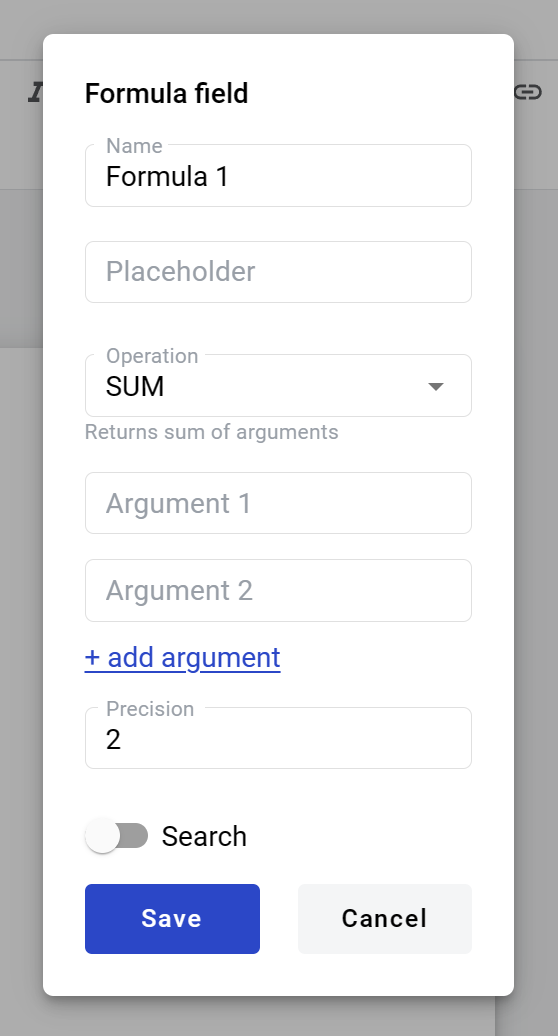
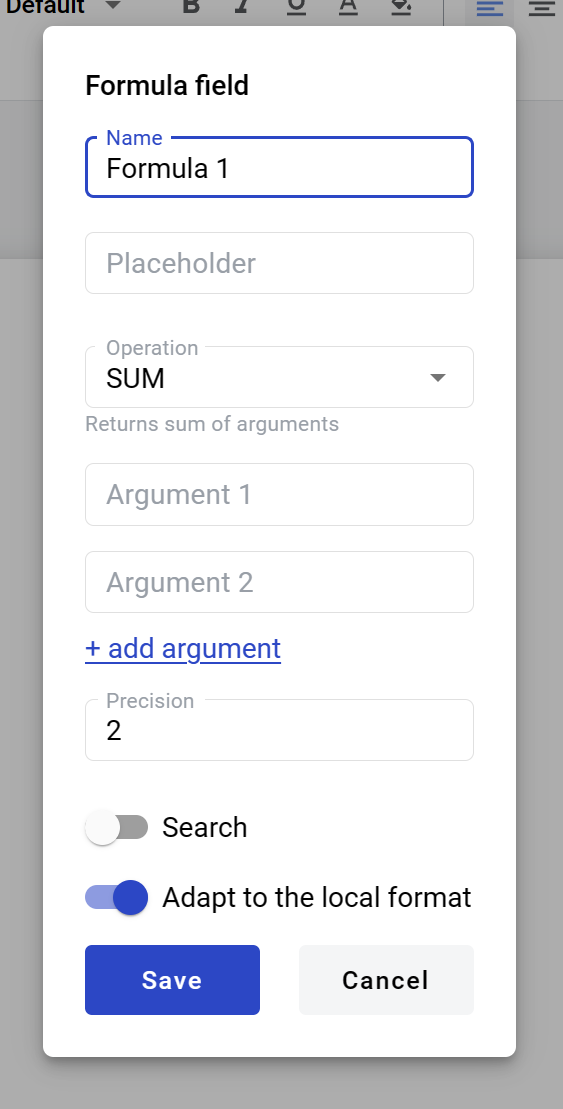
Formula regional formatting

diff --git a/docs/source/pages/howToWorkWithPlatform/mainApplication/templateList/templateManagement/documentManagementOnTemplate/structuredDocument/fields/formula/Formula.rst b/docs/source/pages/howToWorkWithPlatform/mainApplication/templateList/templateManagement/documentManagementOnTemplate/structuredDocument/fields/formula/Formula.rst
@@ -52,6 +52,9 @@ How to add formula field to template
 
 8. Precision - number of decimal places allowed in field (no limit is applied if left empty)
 9. Search - this attribute specifies if this field should be eligible for mailbox page search
+10. Adapt to the local format - this attribute specifies if numbers will be formatted according to regional standard
+
+.. note:: Numbers in envelope view will be formatted according to standard of a region which is selected on User profile page. You can see formatting example under region selector on that page. Numbers in printable versions of the documents will always be formatted according to platform region standard.
 
 When all attributres are set, you can click Save button and field will be added. You can click field to see its properties and update them. Also you can delete the field in same menu.
 
